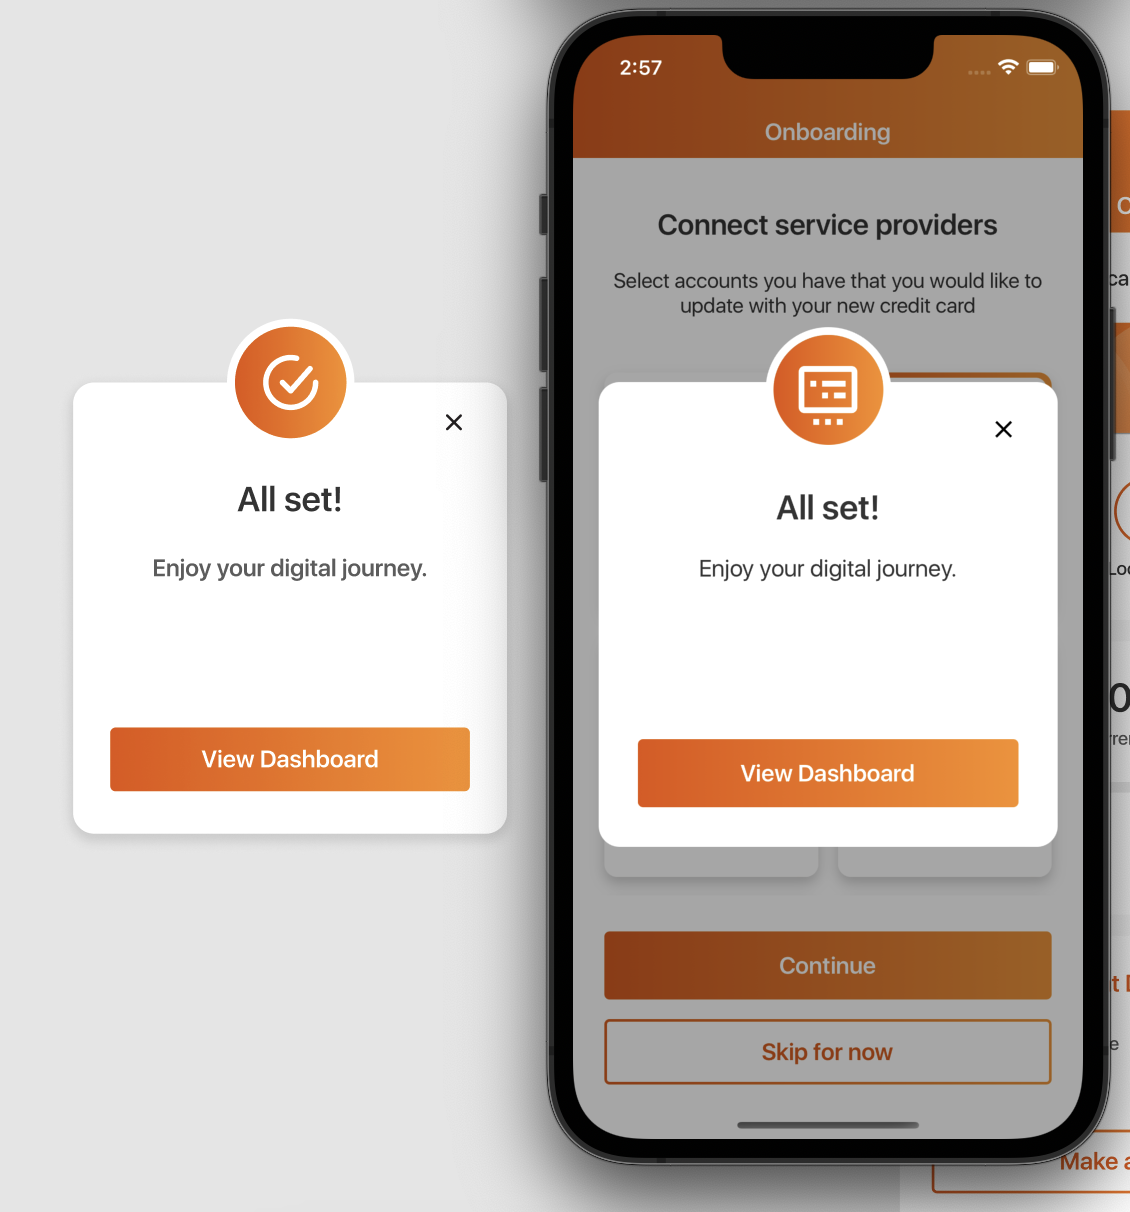
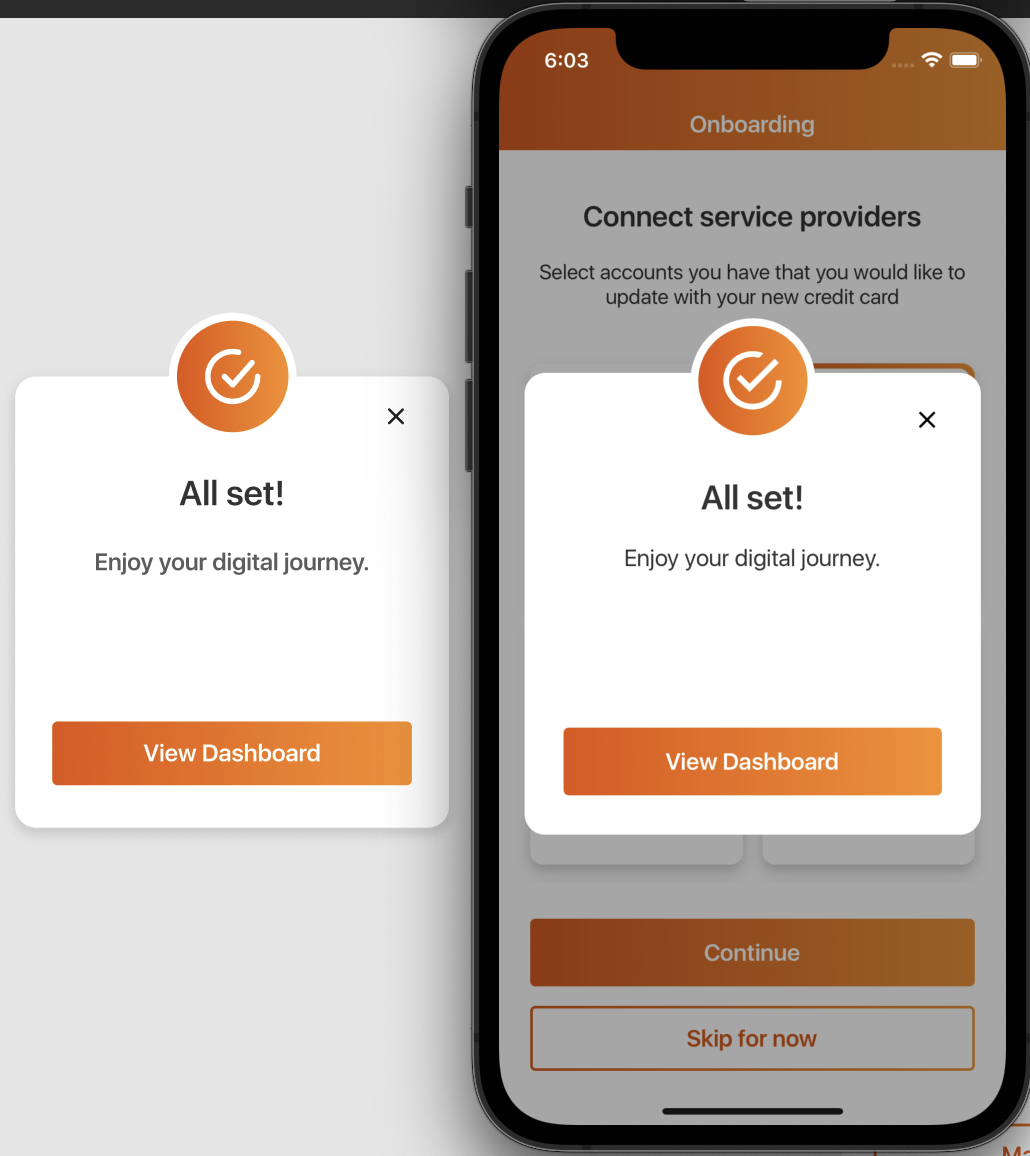
Minor changes

diff --git a/src/app/scenes/dashboard/cardControls/constants.tsx b/src/app/scenes/dashboard/cardControls/constants.tsx
@@ -11,7 +11,7 @@ export const generalOptions = (theme: DefaultTheme) => [
     id: 'resetPin',
     icon: (
       <GradientIcon
-        name="eye-off-outline"
+        name="card-bulleted-settings-outline"
         Icon={Icon}
         border={0}
         padding={0}
@@ -26,7 +26,7 @@ export const generalOptions = (theme: DefaultTheme) => [
     id: 'notifications',
     icon: (
       <GradientIcon
-        name="eye-off-outline"
+        name="bell-outline"
         Icon={Icon}
         border={0}
         padding={0}
@@ -40,7 +40,7 @@ export const generalOptions = (theme: DefaultTheme) => [
     id: 'requestCard',
     icon: (
       <GradientIcon
-        name="eye-off-outline"
+        name="card-bulleted-outline"
         Icon={Icon}
         border={0}
         padding={0}

diff --git a/src/app/scenes/onboarding/screens/onboarding.screen.tsx b/src/app/scenes/onboarding/screens/onboarding.screen.tsx
@@ -135,7 +135,7 @@ const OnboardingScreen: FC<ScreenProps> = ({navigation}) => {
           onAccept={goToDashboard}
           onExit={closeAllSetModal}
           Icon={Icon}
-          iconName={'card-bulleted-settings-outline'}
+          iconName={'checkbox-marked-circle-outline'}
         />
       </AlertModal>
     </>

diff --git a/src/atomic/molecules/cardContainer/cardContainer.styles.tsx b/src/atomic/molecules/cardContainer/cardContainer.styles.tsx
@@ -28,7 +28,7 @@ const styles = StyleSheet.create({
   blockedContainer: {
     position: 'absolute',
     width: '100%',
-    backgroundColor: 'rgba(0,0,0,0.6)',
+    backgroundColor: 'rgba(0,0,0,0.5)',
     borderRadius: 8,
     alignItems: 'center',
     height: '100%',
